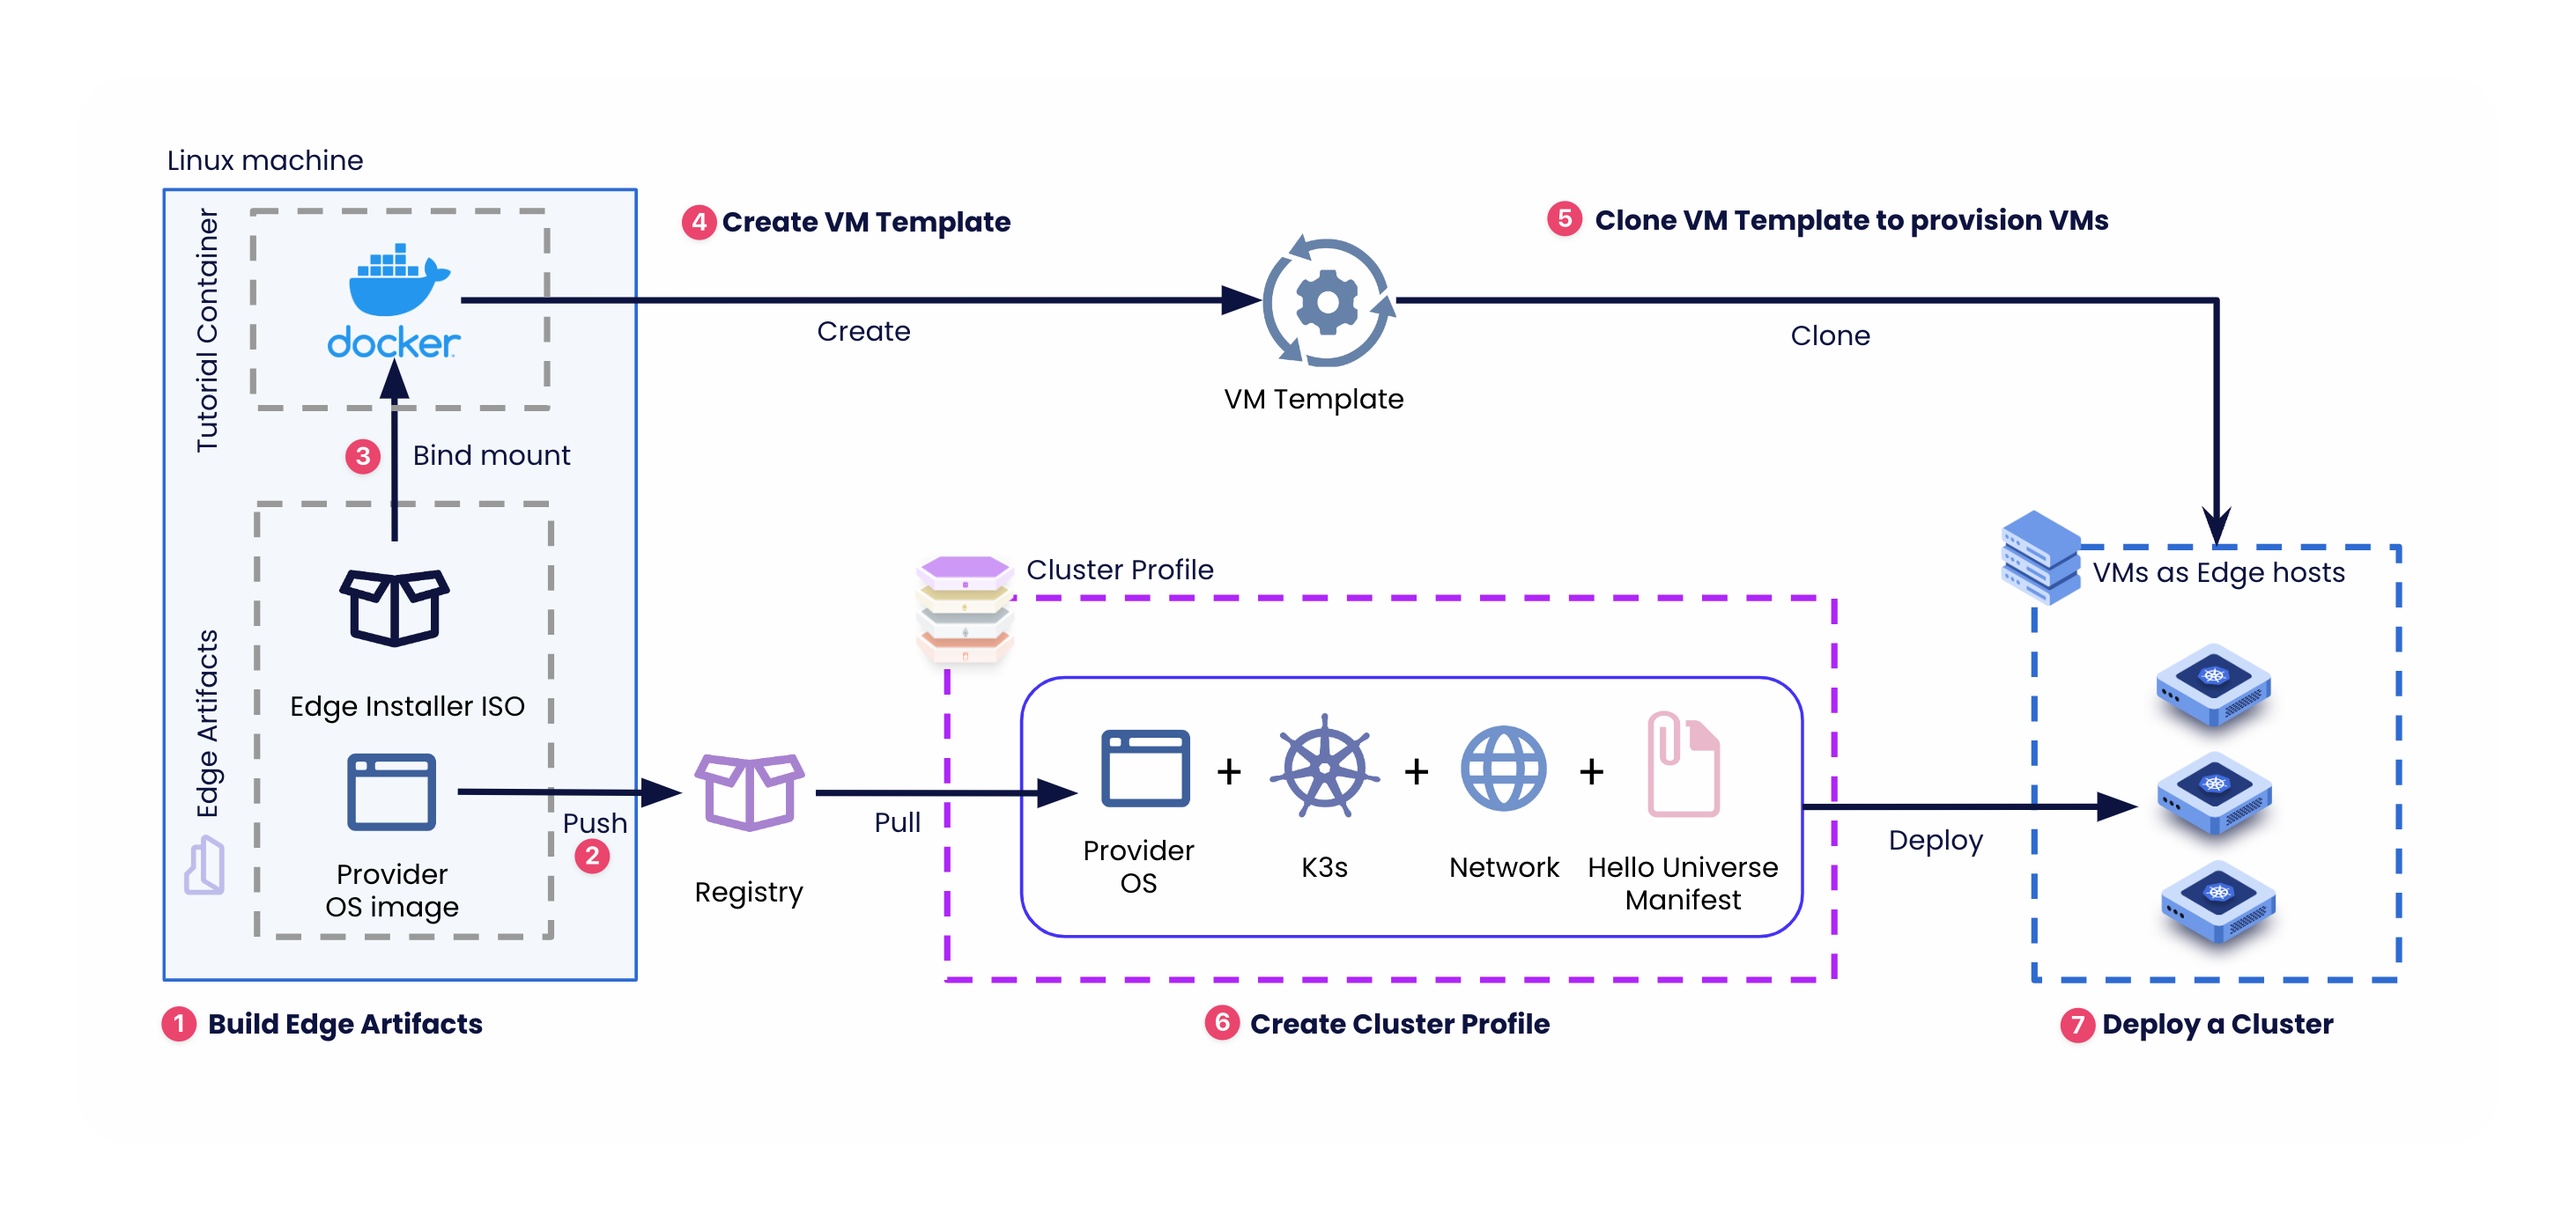
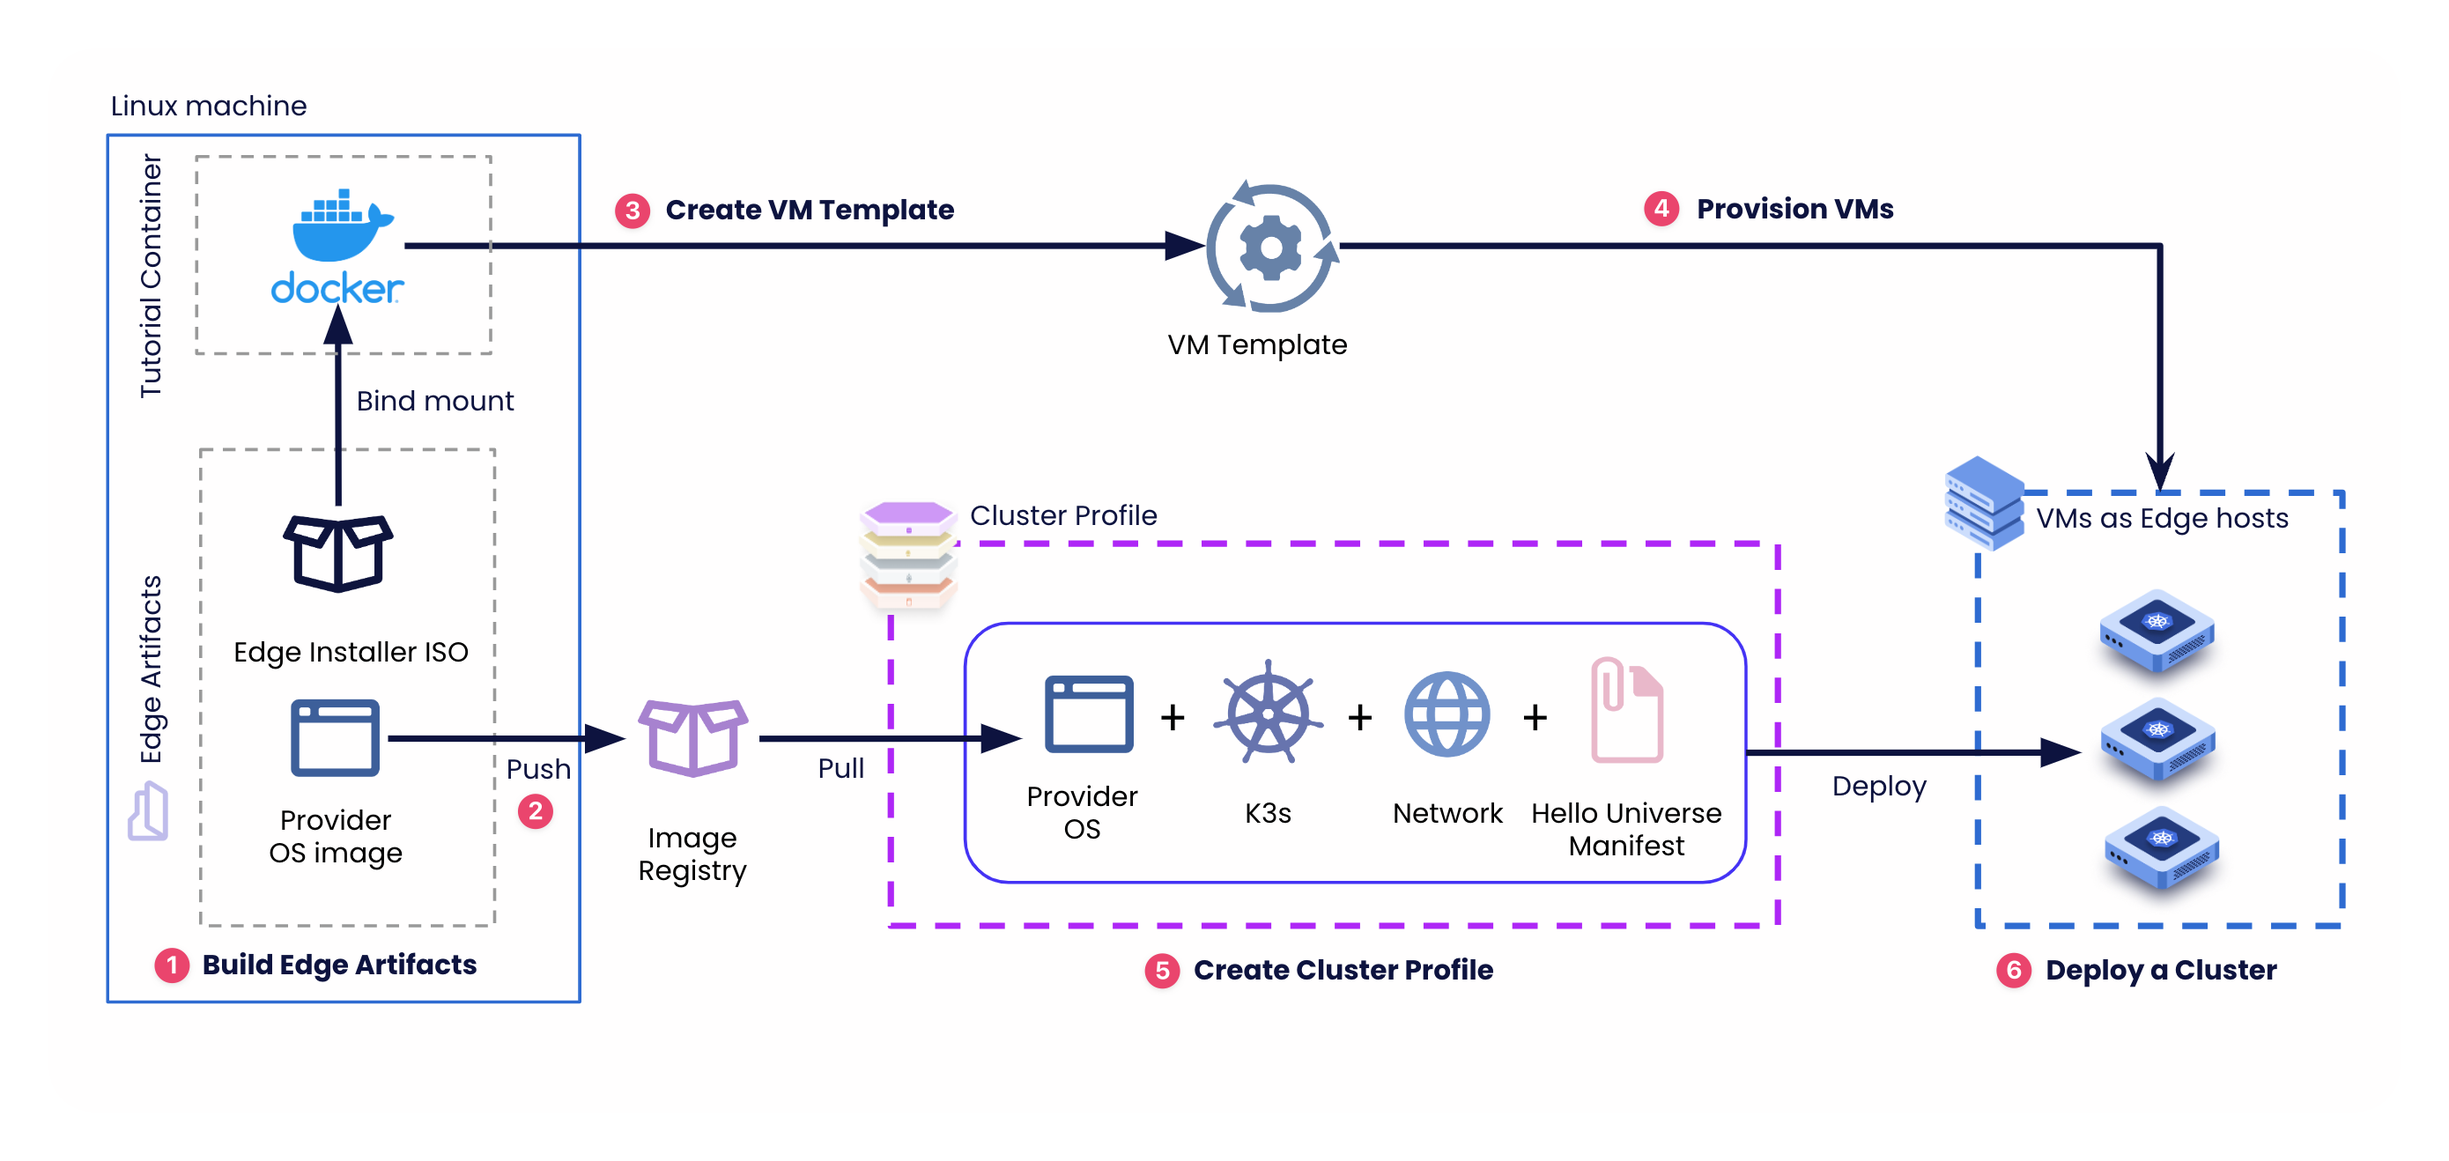
docs: update overarching diagram

Changed region(s): [[0.0309, 0.3733, 0.959, 0.871], [0.0309, 0.0622, 0.8971, 0.5288], [0.2475, 0.7155, 0.3094, 0.7777]]

diff --git a/content/docs/04-clusters/03-edge/11-deploy-cluster.md b/content/docs/04-clusters/03-edge/11-deploy-cluster.md
@@ -34,8 +34,6 @@ Setting up Virtual Machines (VMs) as Edge hosts and deploying a cluster on the E
 
 ![An overarching diagram showing the tutorial workflow.](/tutorials/edge-native/clusters_edge_deploy-cluster_overarching.png)
 
-
-
  
 # Prerequisites
 To complete this tutorial, you will need the following items:
@@ -275,7 +273,7 @@ ttl.sh/ubuntu   k3s-1.25.2-v3.4.3-demo   0217de3b9e7c   45 minutes ago   4.61GB
 ## Push Provider Images
 Push the provider images to the image registry mentioned in the **.arg** file so that you can reference the provider image in your cluster profile later. 
 
-This example will use the provider image compatible with K3s v1.25 in the cluster profile. Therefore, use the following command to push the provider image compatible with K3s v1.25 to the image registry. If you want to use the provider image compatible with K3s v1.24 instead, push that version to the image registry. The current example and default behavior use the [ttl.sh](https://ttl.sh/) image registry. This image registry is free to use and does not require a sign-up. Images pushed to ttl.sh are ephemeral and will expire after the 24 hrs time limit.  
+This example will use the provider image compatible with K3s v1.25 in the cluster profile. Therefore, use the following command to push the provider image compatible with K3s v1.25 to the image registry. If you want to use the other provider image compatible with K3s v1.24 instead, push that version to the image registry. The current example and default behavior use the [ttl.sh](https://ttl.sh/) image registry. This image registry is free to use and does not require a sign-up. Images pushed to ttl.sh are ephemeral and will expire after the 24 hrs time limit.  
 <br />
 
 ```bash
@@ -301,15 +299,15 @@ Use the following heredoc script to create a file, **.packerenv**, containing th
 
 ```bash
 cat << EOF > .packerenv
-PKR_VAR_vcenter_server=$(read -p 'Enter vCenter Server URL without http:// or https://, for example: vcenter.spectrocloud.dev ' vcenter_server && echo $vcenter_server)
-PKR_VAR_vcenter_username=$(read -p 'Enter vCenter Username value: ' vcenter_username && echo $vcenter_username)
-PKR_VAR_vcenter_password=$(read -p 'Enter vCenter Password value: ' vcenter_password && echo $vcenter_password)
-PKR_VAR_vcenter_datacenter=$(read -p 'Enter vCenter Datacenter name: ' vcenter_datacenter && echo $vcenter_datacenter)
-PKR_VAR_vcenter_datastore=$(read -p 'Enter vCenter Datastore name: ' vcenter_datastore && echo $vcenter_datastore)
-PKR_VAR_vcenter_resource_pool=$(read -p 'Enter vCenter Resource Pool name: ' vcenter_resource_pool && echo $vcenter_resource_pool)
-PKR_VAR_vcenter_folder=$(read -p 'Enter vCenter Folder name: ' vcenter_folder && echo $vcenter_folder)
-PKR_VAR_vcenter_cluster=$(read -p 'Enter vCenter Cluster name: ' vcenter_cluster && echo $vcenter_cluster)
-PKR_VAR_vcenter_network=$(read -p 'Enter vCenter Network name: ' vcenter_network && echo $vcenter_network)
+PKR_VAR_vcenter_server=$(read -ep 'Enter vCenter Server URL without http:// or https://, for example: vcenter.spectrocloud.dev ' vcenter_server && echo $vcenter_server)
+PKR_VAR_vcenter_username=$(read -ep 'Enter vCenter Username value: ' vcenter_username && echo $vcenter_username)
+PKR_VAR_vcenter_password=$(read -ep 'Enter vCenter Password value: ' vcenter_password && echo $vcenter_password)
+PKR_VAR_vcenter_datacenter=$(read -ep 'Enter vCenter Datacenter name: ' vcenter_datacenter && echo $vcenter_datacenter)
+PKR_VAR_vcenter_datastore=$(read -ep 'Enter vCenter Datastore name: ' vcenter_datastore && echo $vcenter_datastore)
+PKR_VAR_vcenter_resource_pool=$(read -ep 'Enter vCenter Resource Pool name: ' vcenter_resource_pool && echo $vcenter_resource_pool)
+PKR_VAR_vcenter_folder=$(read -ep 'Enter vCenter Folder name: ' vcenter_folder && echo $vcenter_folder)
+PKR_VAR_vcenter_cluster=$(read -ep 'Enter vCenter Cluster name: ' vcenter_cluster && echo $vcenter_cluster)
+PKR_VAR_vcenter_network=$(read -ep 'Enter vCenter Network name: ' vcenter_network && echo $vcenter_network)
 EOF
 ```
 
@@ -836,7 +834,7 @@ The core component of preparing Edge hosts and deploying Palette-managed Edge cl
 
 In this tutorial, you learned how to build Edge artifacts, prepare VMWare VMs as Edge hosts using Edge installer ISO, create a cluster profile referencing a provider image, and deploy a cluster.
 
-Palette's Edge solution allows you to prepare your Edge hosts with the desired OS, dependencies, and user data configurations. It supports multiple Kubernetes versions while building the Edge artifacts and creating cluster profiles, enabling you to choose the desired Kubernetes version for your cluster deployment. Before you plan a production-level deployment at scale, you can prepare a small set of Edge devices for development testing and validate the devices' state and installed applications. Once the validation is satisfactory and meets your requirements, you can roll out Edge artifacts and cluster profiles for deployment in production. This approach maintains consistency while deploying Kubernetes clusters at scale across all physical sites, be it 1000 or more sites. With all these benefits, you can conveniently deploy and manage Edge clusters with Palette. Please check out the reference resources below to learn more about deploying Edge clusters.
+Palette's Edge solution allows you to prepare your Edge hosts with the desired OS, dependencies, and user data configurations. It supports multiple Kubernetes versions while building the Edge artifacts and creating cluster profiles, enabling you to choose the desired Kubernetes version for your cluster deployment. Before you plan a production-level deployment at scale, you can prepare a small set of Edge devices for development testing and validate the devices' state and installed applications. Once the validation is satisfactory and meets your requirements, you can roll out Edge artifacts and cluster profiles for deployment in production. This approach maintains consistency while deploying Kubernetes clusters at scale across all physical sites, be it 1000 or more sites. In addition to all these benefits, you can conveniently manage the entire lifecycle of Edge clusters with Palette. Please check out the reference resources below to learn more about deploying Edge clusters.
 <br />
 
 - [Build Edge Artifacts](/clusters/edge/edgeforge-workflow/palette-canvos)
